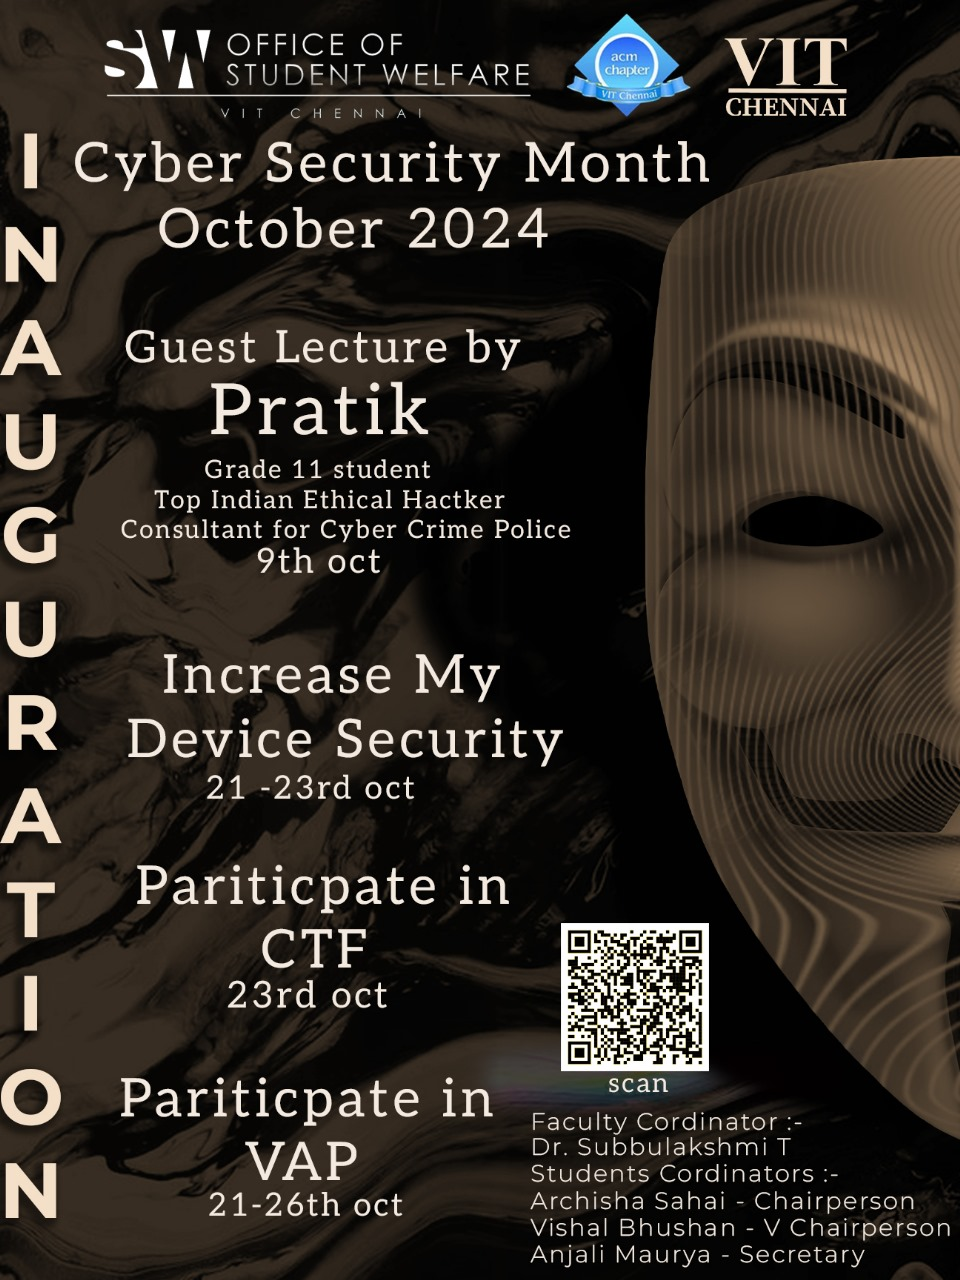
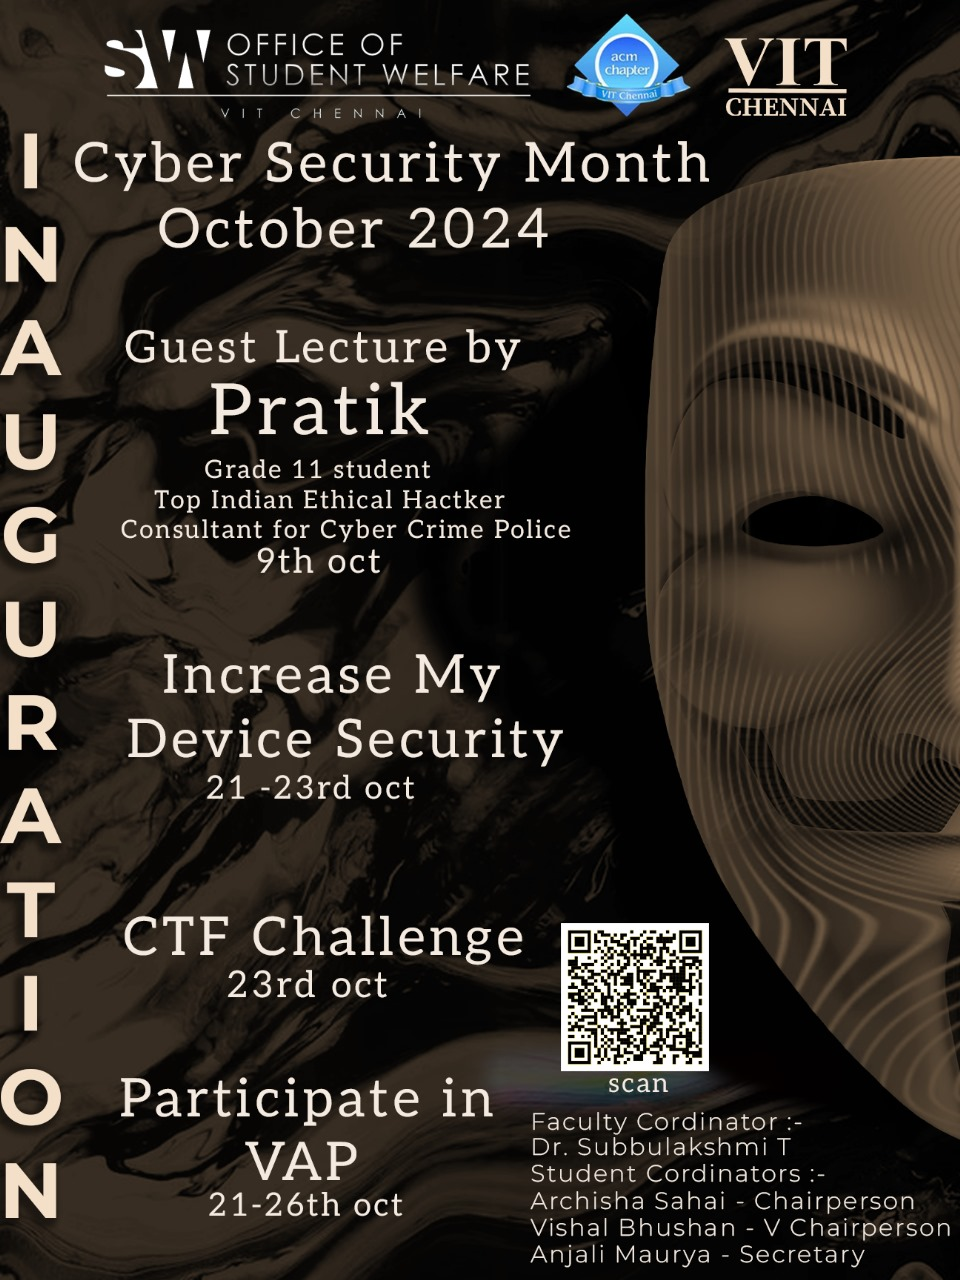
Link Change

Changed region(s): [[0.125, 0.6562, 0.5625, 0.7812], [0.6562, 0.9062, 0.8438, 0.9375], [0.2188, 0.8438, 0.3125, 0.875]]

diff --git a/EventsDetails/cybermonth.html b/EventsDetails/cybermonth.html
@@ -27,13 +27,15 @@
 
 <body>
     <nav class="navbar navbar-light navbar-expand-md fixed-top" id="mainNav">
-        <div class="container"><a class="navbar-brand" href="#">ACM - VIT CHENNAI</a><button
+        <div class="container"><a class="navbar-brand" href="/index.html">ACM - VIT CHENNAI</a><button
                 class="navbar-toggler navbar-toggler-right" data-bs-toggle="collapse" type="button"
                 aria-controls="navbarResponsive" aria-expanded="false" aria-label="Toggle navigation" value="Menu"><i
                     class="fa fa-bars"></i></button></div>
     </nav>
     <section class="my-5 py-5">
         <h1 class="display-1 fw-bold flash animated" style="text-align: center;">Cyber Day</h1>
+        <p data-aos="fade-left"><strong>Since 2004, CISA (Cybersecurity & Infrastructure Security Agency) have declared October to be Cybersecurity Awareness Month.</strong></p>
+        <p data-aos="fade-left"><strong> October 2024 marks the 21st Cybersecurity Awareness Month.</strong></p>
         <div class="container">
             <div class="row">
                 <div class="col-md-12 text-center py-5" data-aos="fade"></div>
@@ -52,14 +54,7 @@
                                         <p data-aos="fade-left"><strong>Are you passionate about Cyber Security.</strong></p>
                                         <p data-aos="fade-left"><strong>Guest Lecture by Pratik (Grade 11 student,Top Indian Ethical Hacker, Consultant for Cyber Crime Police)
                                             9th October</strong></p>
-                                        <p data-aos="fade-left"><strong>Increase My Device Security
-                                            21-23rd October</strong></p>
-                                        <p data-aos="fade-left"><strong>CTF
-                                            23rd October</strong></p>
-                                        <p data-aos="fade-left"><strong>VAP
-                                            21-26th October</strong></p>
-                                    </div>
-                                    <a class="btn btn-dark" role="button" data-aos="fade-left"
+                                            <a class="btn btn-dark" role="button" data-aos="fade-left"
                                         href="https://forms.gle/rVHzMs93MQJ9J1vw9"
                                         target="_blank"
                                         style="text-align: center;background: rgb(83,169,255);">Guest lecture
@@ -69,17 +64,9 @@
                                                 d="M1 8a.5.5 0 0 1 .5-.5h11.793l-3.147-3.146a.5.5 0 0 1 .708-.708l4 4a.5.5 0 0 1 0 .708l-4 4a.5.5 0 0 1-.708-.708L13.293 8.5H1.5A.5.5 0 0 1 1 8z">
                                             </path>
                                         </svg></a>
-                                        <a class="btn btn-dark" role="button" data-aos="fade-left"
-                                        href="https://forms.gle/p8ZpQgzCSTgqJEuw8"
-                                        target="_blank"
-                                        style="text-align: center;background: rgb(83,169,255);">CTF Registration
-                                        Link&nbsp;<svg xmlns="http://www.w3.org/2000/svg" width="1em" height="1em"
-                                            fill="currentColor" viewBox="0 0 16 16" class="bi bi-arrow-right">
-                                            <path fill-rule="evenodd"
-                                                d="M1 8a.5.5 0 0 1 .5-.5h11.793l-3.147-3.146a.5.5 0 0 1 .708-.708l4 4a.5.5 0 0 1 0 .708l-4 4a.5.5 0 0 1-.708-.708L13.293 8.5H1.5A.5.5 0 0 1 1 8z">
-                                            </path>
-                                        </svg></a>
-                                        <a class="btn btn-dark" role="button" data-aos="fade-left"
+                                        <p data-aos="fade-left"><strong>Increase My Device Security
+                                            21-23rd October</strong></p>
+                                            <a class="btn btn-dark" role="button" data-aos="fade-left"
                                         href="https://forms.gle/4doYLhZ4UvLqdrT89"
                                         target="_blank"
                                         style="text-align: center;background: rgb(83,169,255);">Increase Security
@@ -89,8 +76,23 @@
                                                 d="M1 8a.5.5 0 0 1 .5-.5h11.793l-3.147-3.146a.5.5 0 0 1 .708-.708l4 4a.5.5 0 0 1 0 .708l-4 4a.5.5 0 0 1-.708-.708L13.293 8.5H1.5A.5.5 0 0 1 1 8z">
                                             </path>
                                         </svg></a>
+                                        <p data-aos="fade-left"><strong>CTF
+                                            23rd October</strong></p>
+                                            <a class="btn btn-dark" role="button" data-aos="fade-left"
+                                        href="https://forms.gle/p8ZpQgzCSTgqJEuw8"
+                                        target="_blank"
+                                        style="text-align: center;background: rgb(83,169,255);">CTF Registration
+                                        Link&nbsp;<svg xmlns="http://www.w3.org/2000/svg" width="1em" height="1em"
+                                            fill="currentColor" viewBox="0 0 16 16" class="bi bi-arrow-right">
+                                            <path fill-rule="evenodd"
+                                                d="M1 8a.5.5 0 0 1 .5-.5h11.793l-3.147-3.146a.5.5 0 0 1 .708-.708l4 4a.5.5 0 0 1 0 .708l-4 4a.5.5 0 0 1-.708-.708L13.293 8.5H1.5A.5.5 0 0 1 1 8z">
+                                            </path>
+                                        </svg></a>
+                                        <p data-aos="fade-left"><strong>VAP
+                                            21-26th October</strong></p>
+                                    </div>
                                     <a class="btn btn-dark" role="button" data-aos="fade-left"
-                                        href="https://vitchennaievents.com/conf1/"
+                                        href="https://www.vitchennaievents.com/conf1/index.php?eventid=2295"
                                         target="_blank"
                                         style="text-align: center;background: rgb(83,169,255);">VAP Registration
                                         Link&nbsp;<svg xmlns="http://www.w3.org/2000/svg" width="1em" height="1em"
